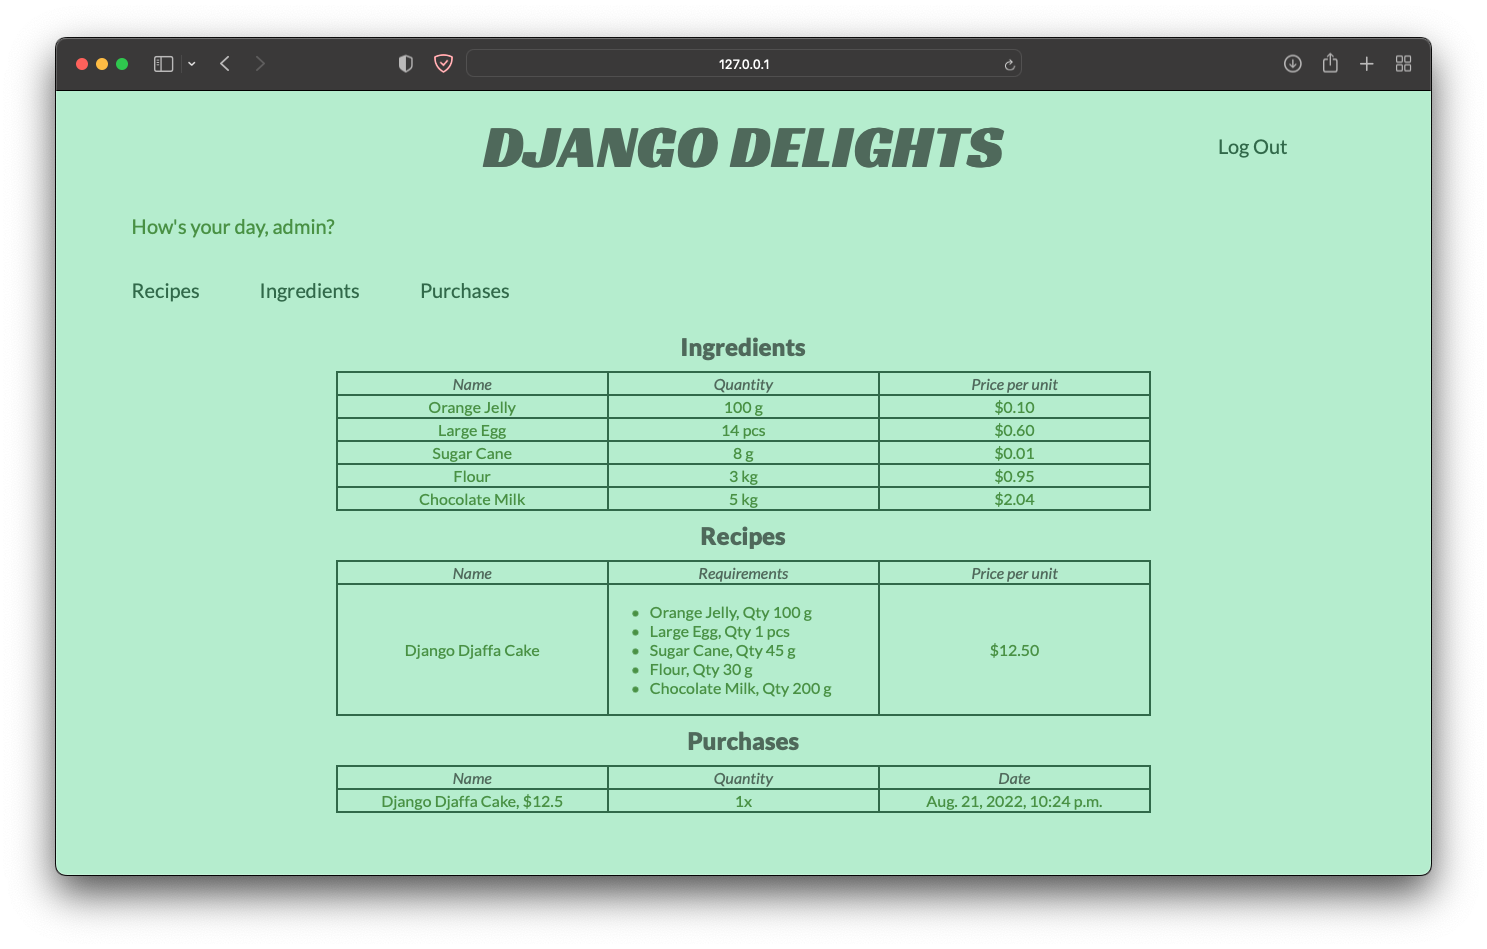
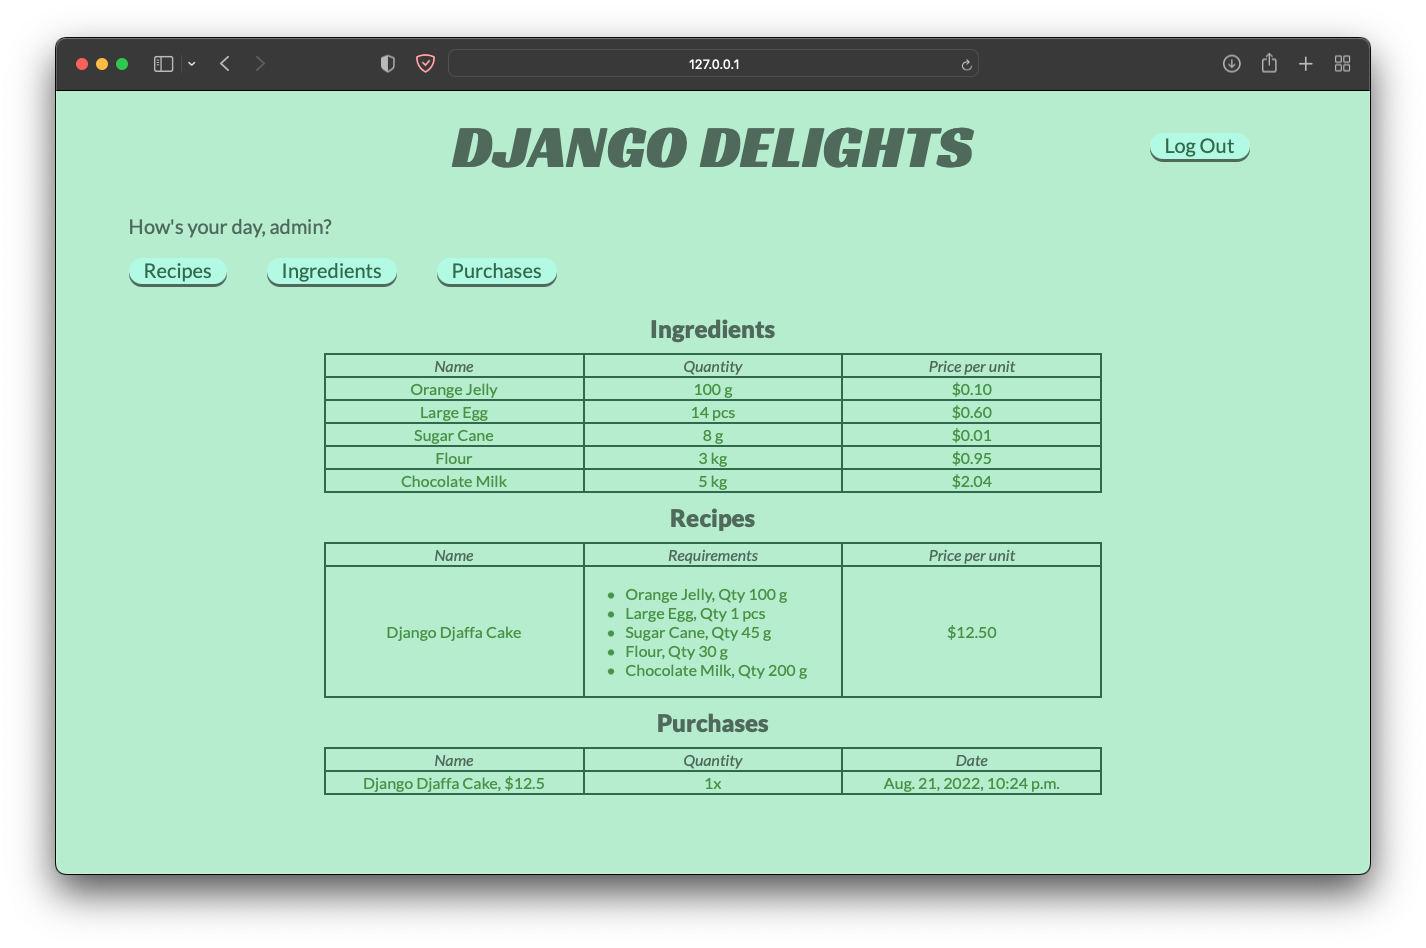
Changed buttons

diff --git a/inventory/static/inventory/static.css b/inventory/static/inventory/static.css
@@ -5,17 +5,20 @@
     --text-color: #47913D;
     --table-elem-color: #306948;
     --background-color: #B4EDCC;
+    --button-color: #B1FAE3;
 }
 
 * {
     background-color: var(--background-color);
 }
 
-p {
+p,
+a {
     font-family: 'Lato', 'Helvetica', 'Arial', sans-serif;
     font-size: 20px;
     font-weight: 400;
     color: var(--table-elem-color);
+    text-decoration: none;
 }
 
 h2 {
@@ -32,6 +35,7 @@ h2 {
     grid-template-columns: 5% 15% 60% 15% 5%;
     grid-template-rows: auto;
     align-items: center;
+    margin-bottom: 20px;
 }
 
 #logo {
@@ -43,7 +47,7 @@ h2 {
     margin: 10px;
 }
 
-.log_btn {
+#log_btn {
     justify-self: center;
     grid-area: 1 / 4 / 2 / 5;
 }
@@ -51,14 +55,14 @@ h2 {
 #message {
     justify-self: start;
     grid-area: 2 / 2 / 3 / 4;
-    color: var(--text-color);
+    color: var(--header-color);
 }
 
 .option {
     grid-area: 3 / 2 / 4 / 4;
     display: flex;
     flex-wrap: wrap;
-    gap: 60px;
+    gap: 40px;
 }
 
 /* login.html */
@@ -72,7 +76,7 @@ h2 {
 .btn {
     color: var(--table-elem-color);
     text-decoration: none;
-    background-color: var(--background-color);
+    background-color: var(--button-color);
     padding: 0 15px 2px 15px;
     border-radius: 25px;
     box-shadow: 0 3px 0 var(--header-color);

diff --git a/inventory/templates/inventory/base.html b/inventory/templates/inventory/base.html
@@ -13,12 +13,12 @@
         <div class="head">
             <h1 id="logo">DJANGO DELIGHTS</h1>
             {% if user.is_authenticated %}
-            <p class="log_btn">Log Out</p>
+            <a id="log_btn" class="btn" href="{% url 'logout' %}">Log Out</a>
             <p id="message">How's your day, {{ user.username }}?</p>
             <div class="option">
-                <p>Recipes</p>
-                <p>Ingredients</p>
-                <p>Purchases</p>
+                <a class="btn">Recipes</a>
+                <a class="btn">Ingredients</a>
+                <a class="btn">Purchases</a>
             </div>
             {% endif %}
     </header>
